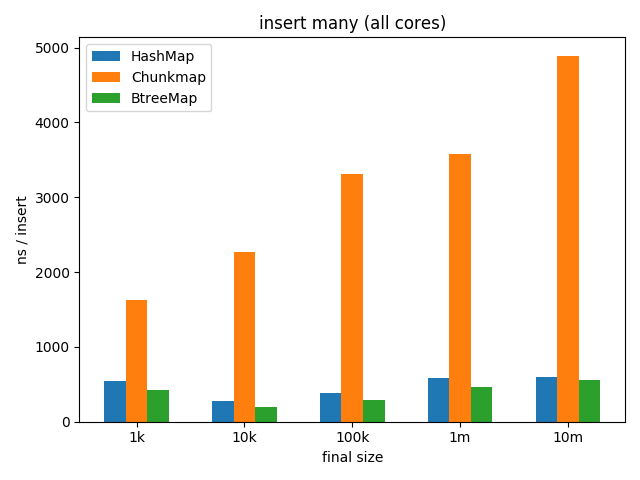
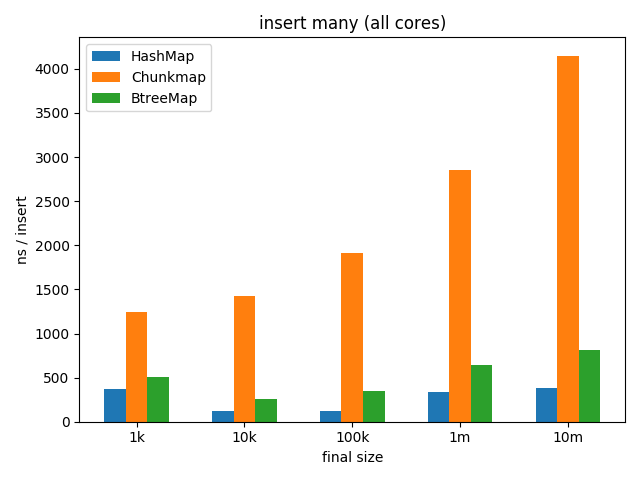
optimize chunk size for strings

diff --git a/src/chunk.rs b/src/chunk.rs
@@ -23,7 +23,7 @@ time a key is added or removed
 -- increases the size of each allocation
 -- icreases the overall amount of memory allocated for each change to the tree
  */
-pub(crate) const SIZE: usize = 256;
+pub(crate) const SIZE: usize = 128;
 
 pub(crate) enum UpdateChunk<Q: Ord, K: Ord + Clone + Borrow<Q>, V: Clone, D> {
     UpdateLeft(Vec<(Q, D)>),
